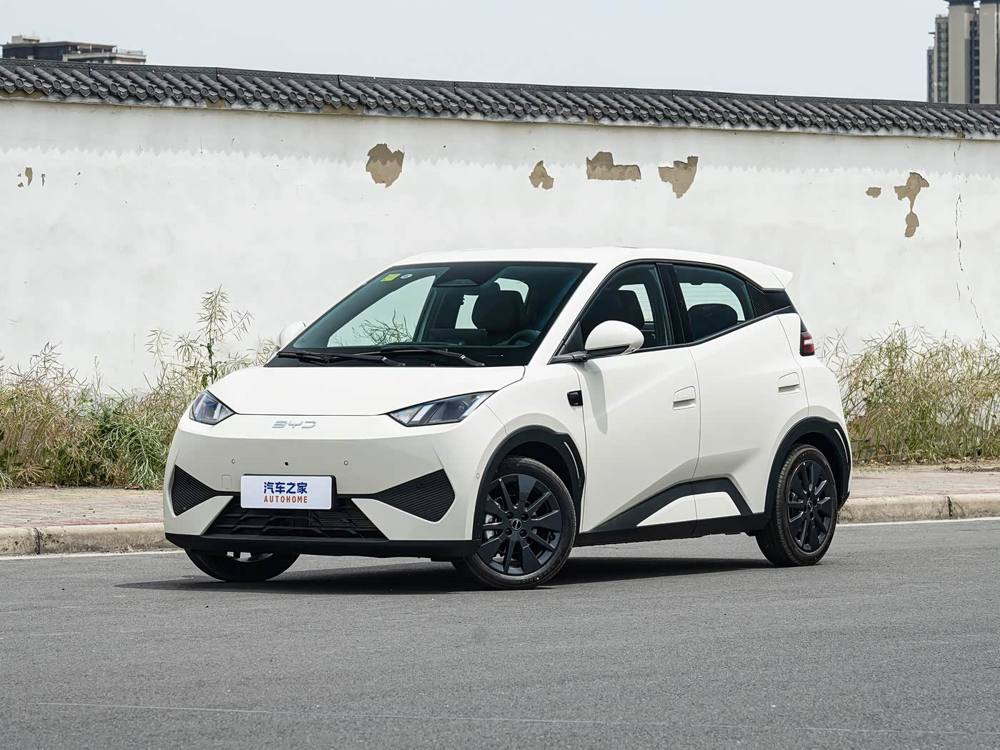
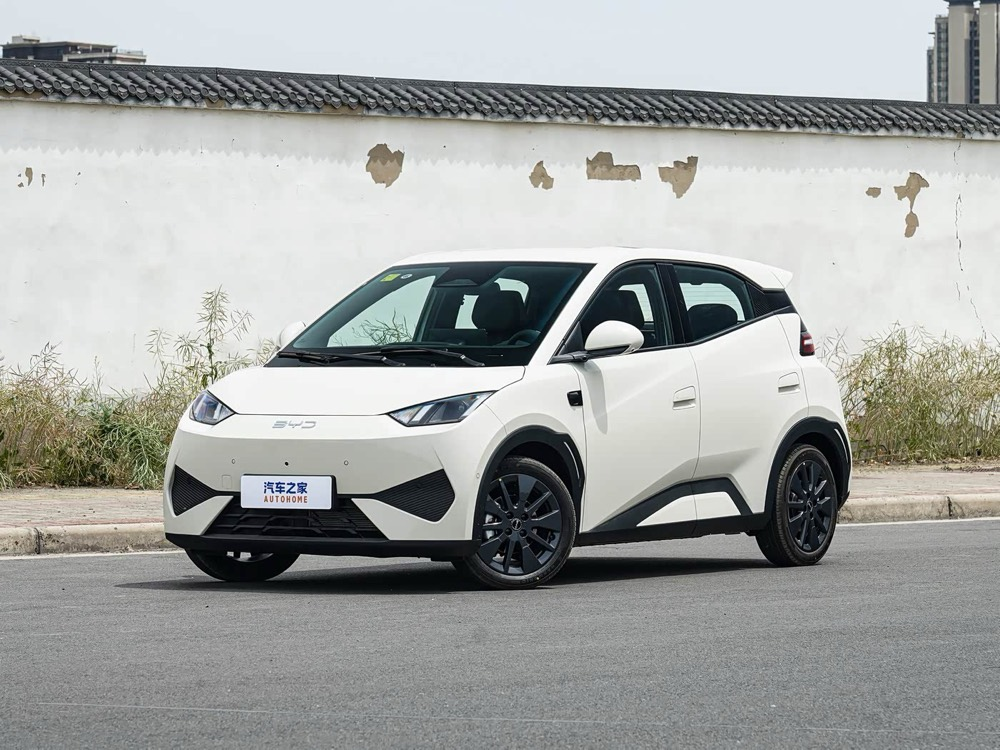
Actualizar catálogo desde el Excel (2 cambios)
➕ Nuevo: BYD Dolphin Mini 405 km libre (Seagull) (2026) — Consultar precio
🖼 Foto nueva o cambiada: 05_BYD_Dolphin_Mini.jpg

diff --git a/catalogo.js b/catalogo.js
@@ -1,6 +1,6 @@
 // Generado automáticamente desde el Excel de Vascruz con "Actualizar web". No editar a mano.
 window.VASCRUZ_CATALOGO = {
- "actualizado": "2026-11-14T21:16:05Z",
+ "actualizado": "2026-11-14T21:47:28Z",
  "modelos": [
   {
    "id": 1,
@@ -96,6 +96,30 @@ window.VASCRUZ_CATALOGO = {
     "distancia_ejes": "2.900 mm",
     "carga": "Consultar",
     "destacado": "Versión Ultra con sensor láser (LiDAR)"
+   }
+  },
+  {
+   "id": 5,
+   "marca": "BYD",
+   "modelo": "Dolphin Mini",
+   "version": "405 km libre (Seagull)",
+   "anio": "2026",
+   "tec": "BEV",
+   "tipo": "Hatchback",
+   "autonomia": 405,
+   "colores": "Blanco/Azul",
+   "precio": null,
+   "foto": "img/autos/05_BYD_Dolphin_Mini.jpg",
+   "ficha": {
+    "bateria": "38,88 kWh Blade (LFP)",
+    "bateria_destacado": "38,9 kWh",
+    "potencia": "55 kW (74 hp)",
+    "potencia_destacado": "74 HP",
+    "traccion": "Delantera (FWD)",
+    "dimensiones": "3.780 × 1.715 × 1.540 mm",
+    "distancia_ejes": "2.500 mm",
+    "carga": "30–80% en aprox. 30 min",
+    "destacado": "Compacto urbano, fácil de estacionar"
    }
   },
   {
@@ -653,6 +677,7 @@ window.VASCRUZ_CATALOGO = {
   "24_Toyota_bZ3X.jpg": "f8168726d9bea1ce6da30e31d15900a4b747de4b",
   "25_Toyota_bZ3X.jpg": "a54c598c2b2ea2e8383fd6b4de035d660a21873a",
   "26_BYD_Leopard_7.jpg": "d0af4577c1bc619af257c117ea800c7bacad81fb",
-  "27_BYD_Shark_6.jpg": "51b35194bce590bc6c8c6cba596ffc57e7733df0"
+  "27_BYD_Shark_6.jpg": "51b35194bce590bc6c8c6cba596ffc57e7733df0",
+  "05_BYD_Dolphin_Mini.jpg": "5b27eba3f52495bb199a771760f3c8ffbd04894b"
  }
 };
